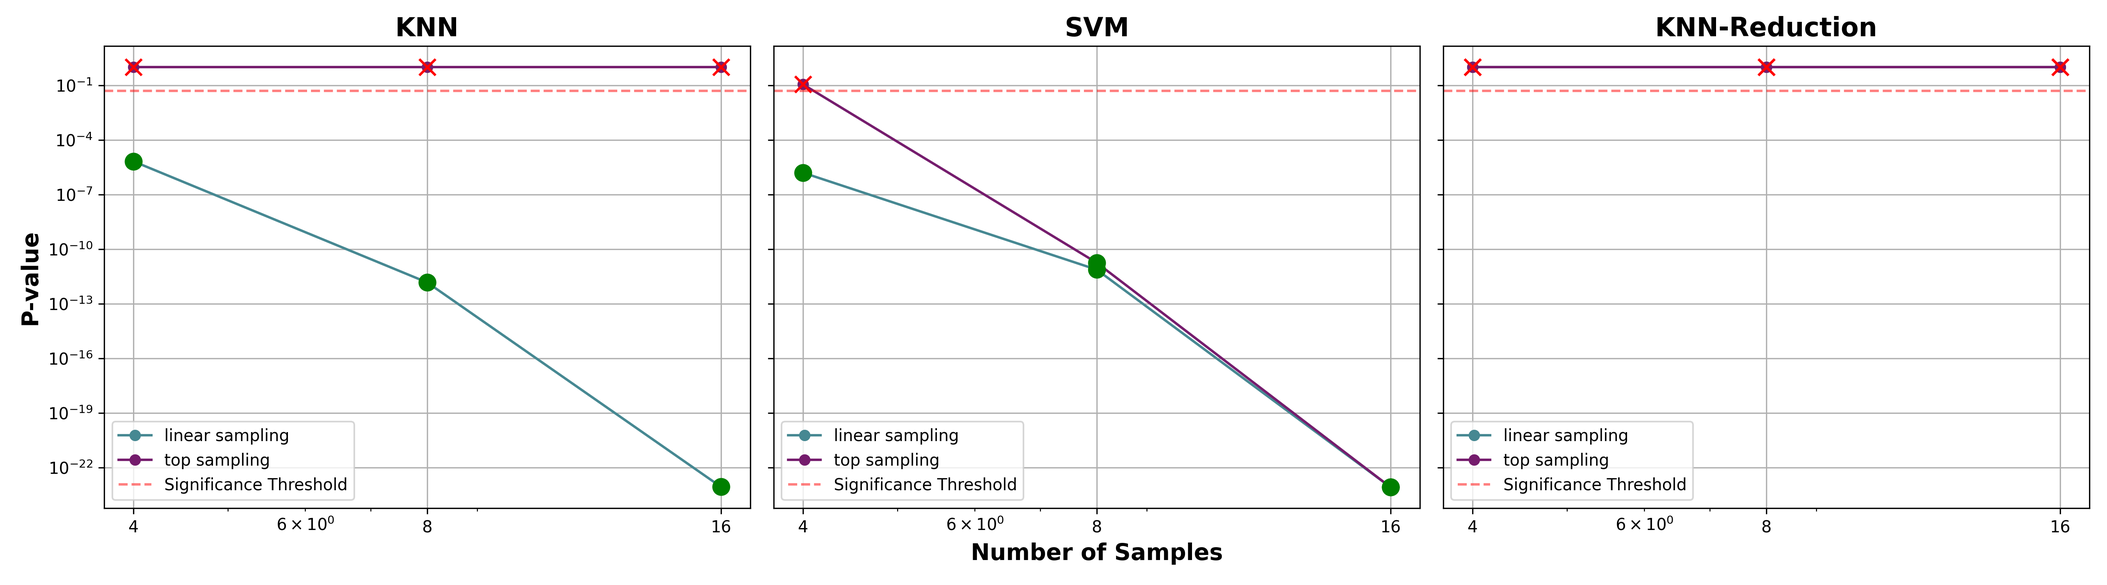
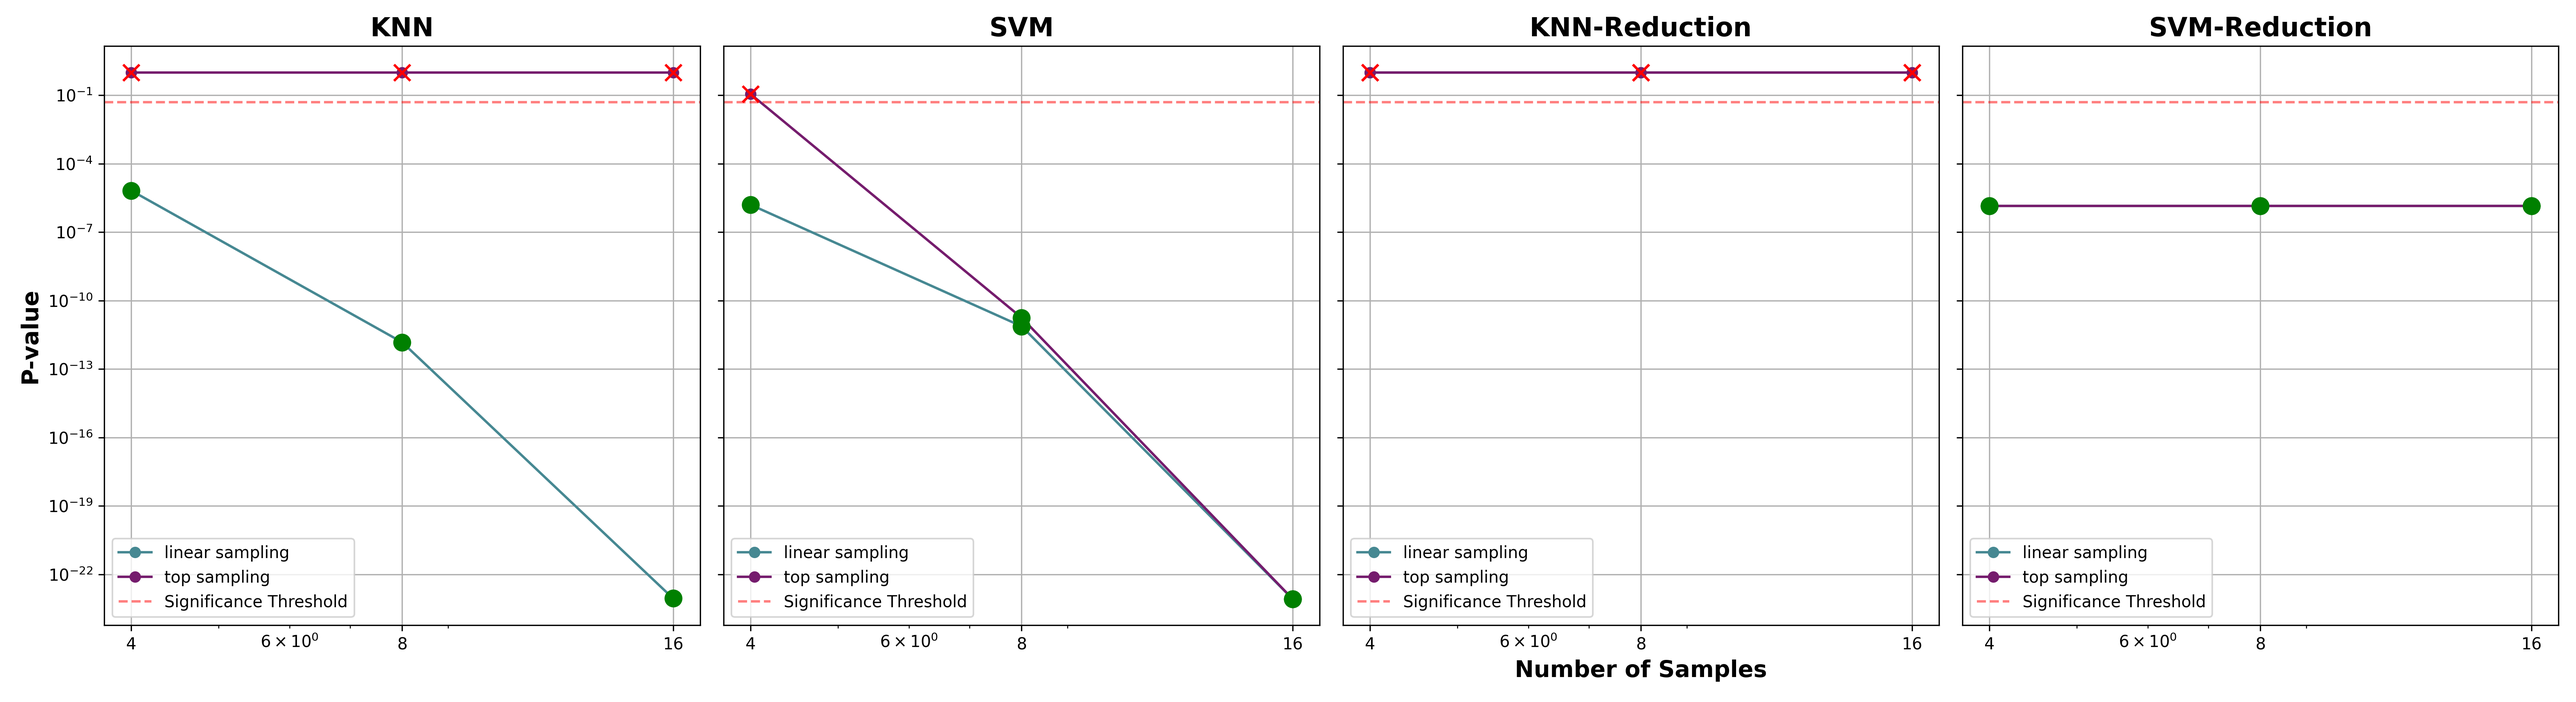
add statistical analysis for SVM-reduction

diff --git a/work2/tools/analysis/run_statistical_analysis.py b/work2/tools/analysis/run_statistical_analysis.py
@@ -108,8 +108,8 @@ for df, name, filename in zip(
 logging.info("Running Friedman test across all models and sampling methods")
 num_sample_options = [4, 8, 16]
 sample_types = ["linear", "top"]
-models = ["KNN", "SVM", "KNN-Reduction"]
-dataframes = [knn_results, svm_results, knn_reduction_results]
+models = ["KNN", "SVM", "KNN-Reduction", "SVM-Reduction"]
+dataframes = [knn_results, svm_results, knn_reduction_results, svm_reduction_results]
 data = []
 
 for sample_type, num_samples, (model, df) in itertools.product(
@@ -133,9 +133,8 @@ p_values_df = pd.DataFrame(data)
 p_values_df
 
 # %%
-# TODO: only plot one point for KNN-Reduction
 logging.info("Plotting p-values vs number of samples")
-fig, axes = plt.subplots(1, 3, figsize=(18, 5), sharex=True, sharey=True)
+fig, axes = plt.subplots(1, 4, figsize=(22, 6), sharex=True, sharey=True)
 
 plot_p_values_vs_num_samples(axes, p_values_df, models, sample_types, num_sample_options)
 
@@ -272,6 +271,45 @@ write_latex_table(
     f"Significant Differences in SVM Models for {dataset_name.title()}",
 )
 # %%
+logging.info("Running Nemenyi test for SVM-Reduction models")
+svm_reduction_results_for_nemenyi = svm_reduction_results
+svm_reduction_nemenyi_results = nemenyi_test(svm_reduction_results_for_nemenyi, f1_cols)
+svm_reduction_nemenyi_results
+
+
+# %%
+logging.info("Plotting Nemenyi test results for SVM-Reduction models")
+fig, ax = plt.subplots(figsize=(12, 12))
+model_labels = svm_reduction_results_for_nemenyi["model_label"]
+sns.heatmap(
+    svm_reduction_nemenyi_results,
+    fmt=".2f",
+    annot=True,
+    cmap=emrld,
+    ax=ax,
+    cbar=False,
+    xticklabels=model_labels,
+    yticklabels=model_labels,
+)
+plt.tight_layout()
+fig.savefig(f"{FIGURES_DIR}/nemenyi_test_results_SVM_Reduction_{dataset_name}.png", dpi=300)
+plt.show()
+
+# %%
+logging.info("Analyzing Nemenyi test results for SVM-Reduction models")
+analyze_parameters(svm_reduction_results_for_nemenyi, svm_reduction_nemenyi_results, svm_col_names)
+
+significant_pairs = get_significant_pairs(svm_reduction_nemenyi_results)
+significant_pairs_df = get_df_pairs(svm_reduction_results_for_nemenyi, significant_pairs)[
+    svm_col_names + ["mean_f1"]
+]
+significant_pairs_df = format_column_names(significant_pairs_df)
+write_latex_table(
+    significant_pairs_df,
+    f"{TABLES_DIR}/svm_reduction_significant_pairs_{dataset_name}.tex",
+    f"Significant Differences in SVM-Reduction Models for {dataset_name.title()}",
+)
+# %%
 
 best_svm_model = svm_results.iloc[0, :]
 best_knn_model = knn_results.iloc[0, :]
@@ -291,7 +329,11 @@ if best_svm_model["mean_f1"] != best_knn_model["mean_f1"]:
             "p_value": [knn_svm_f1_p_value, knn_svm_train_time_p_value, knn_svm_test_time_p_value],
         }
     )
-    svm_knn_comparison_df
+    write_latex_table(
+        svm_knn_comparison_df,
+        f"{TABLES_DIR}/svm_knn_wilcoxon_comparison_{dataset_name}.tex",
+        f"Wilcoxon Signed-Rank Test Results for SVM and KNN Models for {dataset_name.title()}",
+    )
 # %%
 metric_cols_array = np.array([f1_cols, train_time_cols, test_time_cols])
 all_metric_cols = metric_cols_array.flatten().tolist()

diff --git a/work2/reports/03-methods/03.4-methods-statistical-analysis.tex b/work2/reports/03-methods/03.4-methods-statistical-analysis.tex
@@ -72,6 +72,29 @@ This is why we employ the Nemenyi test as a post-hoc procedure.
 The Nemenyi test compares the performance of all classifiers to each
 other by checking if their average ranks differ by at least the critical difference:
 
+\subsubsection{Wilcoxon Signed-Rank Test}
+To directly compare the performance between SVM and KNN models, we employ the Wilcoxon signed-rank test.
+This non-parametric test is particularly suitable for paired comparisons between two related samples,
+making it ideal for comparing two different classifiers on the same datasets.
+
+The Wilcoxon signed-rank test works by:
+\begin{enumerate}
+    \item Taking the difference between paired observations (in our case, the performance metrics of SVM and KNN on the same fold)
+    \item Ranking these differences by their absolute values
+    \item Summing the ranks of positive and negative differences separately
+\end{enumerate}
+
+Like the Friedman test, the Wilcoxon test makes no assumptions about the normality of the data,
+which aligns with our earlier observations about the non-normal distribution of performance metrics.
+The test provides a more focused comparison between our two classifier types than the Friedman test,
+which compares all configurations simultaneously.
+
+The null hypothesis for the Wilcoxon test is that the median difference between pairs of observations is zero.
+In our context, this means testing whether there is a significant difference in performance between SVM and KNN models.
+A p-value below our significance level ($\alpha = 0.05$) would indicate a statistically significant difference
+between the two classifiers' performances.
+
+
 \begin{equation}
     CD = q_{\alpha} \times \sqrt{\frac{k(k+1)}{6N}}
 \end{equation}

diff --git a/work2/reports/tables/svm_reduction_significant_pairs_mushroom.tex b/work2/reports/tables/svm_reduction_significant_pairs_mushroom.tex
@@ -1,0 +1,15 @@
+\begin{table}
+\centering
+\caption{Significant Differences in SVM-Reduction Models for Mushroom}
+\label{tab:svm_reduction_significant_pairs_mushroom}
+\begin{tabular}{rlr}
+\toprule
+C & Kernel Type & Mean F1 \\
+\midrule
+5 & poly & 1.000 \\
+5 & poly & 0.972 \\
+5 & poly & 1.000 \\
+5 & poly & 1.000 \\
+\bottomrule
+\end{tabular}
+\end{table}

diff --git a/work2/reports/tables/SVM-Reduction_legend.tex b/work2/reports/tables/SVM-Reduction_legend.tex
@@ -6,10 +6,10 @@
 \toprule
 Model Label & C & Kernel Type \\
 \midrule
-CtrlC50Rbf & 50 & rbf \\
-GcnnC50Rbf & 50 & rbf \\
-EnnthC50Rbf & 50 & rbf \\
-Drop3C50Rbf & 50 & rbf \\
+CtrlC5Poly & 5 & poly \\
+GcnnC5Poly & 5 & poly \\
+EnnthC5Poly & 5 & poly \\
+Drop3C5Poly & 5 & poly \\
 \bottomrule
 \end{tabular}
 \end{table}
